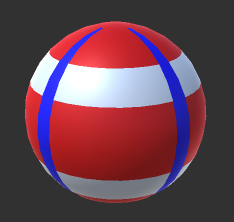
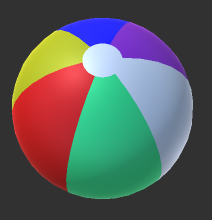
added beach ball and changed particle to black

diff --git a/Assets/Scripts/GuiController.cs b/Assets/Scripts/GuiController.cs
@@ -241,7 +241,6 @@ public class GuiController : MonoBehaviour {
 
             int Screen_img_width = Screen.width / 8;
 
-            float Screen_x_score_posit = Screen_x_name_width + 10;
 
             int Screen_y = 0;
 
@@ -259,7 +258,7 @@ public class GuiController : MonoBehaviour {
 
             //ColoredBallImg
             Screen_y = Screen_y + Screen_img_width + 10;
-            AddProjectile("ColoredSphere", "Colorful", ColoredBallImg, 50, Screen_y);
+            AddProjectile("Beach", "Beach", ColoredBallImg, 50, Screen_y);
 
             //Spike Sphere
             Screen_y = Screen_y + Screen_img_width + 10;

diff --git a/Assets/Scripts/GameController.cs b/Assets/Scripts/GameController.cs
@@ -204,7 +204,7 @@ public class GameController : MonoBehaviour {
         string glyphs = "abcdefghijklmnopqrstuvwxyz0123456789";
         string GenString = "";
 
-        int charAmount = Random.Range(8, 12); //set those to the minimum and maximum length of your string
+        int charAmount = Random.Range(10, 20); //set those to the minimum and maximum length of your string
 
         for (int i = 0; i < charAmount; i++)
         {
@@ -212,7 +212,7 @@ public class GameController : MonoBehaviour {
         }
 
         UserId = GenString;
-        Debug.Log(UserId);
+        //Debug.Log(UserId);
     }
 
 
